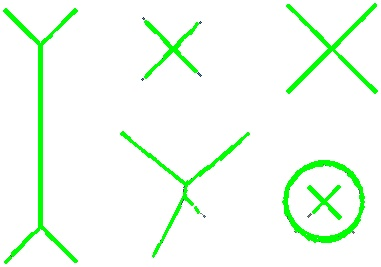
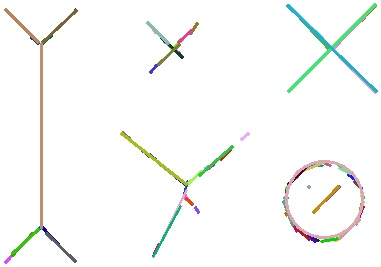
add line joining ideas...

diff --git a/hough.py b/hough.py
@@ -6,6 +6,8 @@ import cv2.cv as cv
 import numpy as np
 import sys
 
+import random
+
 from PIL import Image, ImageFilter
 
 FILE = sys.argv[1]
@@ -17,6 +19,9 @@ img = cv2.imread(FILE)
 gray = cv2.cvtColor(img,cv2.COLOR_BGR2GRAY)
 blur = cv2.blur(img, (5, 5))
 edges = cv2.Canny(gray,50,150,apertureSize = 3)
+
+blankimg = img.copy()
+blankimg[:] = (255, 255, 255)
 
 gray = (255-gray)
 
@@ -33,15 +38,150 @@ circles = cv2.HoughCircles(gray,cv.CV_HOUGH_GRADIENT,1,50,
 
 if lines is not None:
   print "FOUND ", len(lines[0]), "LINES"
-  for x1,y1,x2,y2 in lines[0]:
-      cv2.line(img,(x1,y1),(x2,y2),(0,255,0),2)
+  unjoined_lines = []
+  joined = True
+  CORNERS = [
+    ([0, 1], [0, 1]),
+    ([0, 1], [2, 3]),
+    ([2, 3], [0, 1]),
+    ([2, 3], [2, 3]),
+  ]
+
+  lines = lines[0]
+
+  newlines = []
+  for line in lines:
+    if line[0] == line[2]:
+      if line[1] > line[3]:
+        newlines.append([line[2], line[3], line[0], line[1]])
+
+      else:
+        newlines.append(line)
+    else:
+      newlines.append(line)
+     
+  lines = newlines
+  while joined:
+      didjoin = False
+      print len(lines), "LINES ARE", lines
+
+      newlines = []
+
+      from collections import defaultdict
+      used = defaultdict(bool)
+
+      lines.sort(key=lambda x: abs(x[2] - x[0]) + abs(x[3] - x[1]))
+      for line in lines:
+          joined = False
+          if used[tuple(line)]:
+              continue
+
+          for neighbor in lines:
+              if used[tuple(neighbor)]:
+                  continue
+
+              if tuple(line) == tuple(neighbor):
+                  continue
+
+
+              # now to check slope...
+              slope1 = 0
+              slope2 = 0
+              try:
+                  slope1 = float(line[3] - line[1]) / float(line[2] - line[0]) 
+              except:
+                pass
+
+              try:
+                  slope2 = float(neighbor[3] - neighbor[1]) / float(neighbor[2] - neighbor[0]) 
+              except:
+                  pass
+
+              # need to check the distance of all possible pairs...
+              for corner_pair in CORNERS:
+                if joined:
+                    break
+
+                x, y = corner_pair[0]
+                a, b = corner_pair[1]
+
+                x_val = line[x]
+                y_val = line[y]
+
+                a_val = neighbor[a]
+                b_val = neighbor[b]
+
+                THRESH=5
+                if abs(x_val - a_val) > THRESH or abs(y_val - b_val) > THRESH:
+                    continue
+
+                print "CORNERS MATCH", (x_val, y_val), (a_val, b_val), line, neighbor
+
+                if abs(slope1 - slope2) > 0.001:
+                    continue
+
+                print "SLOPES MATCH", slope1, slope2
+
+                # now, we take the two corners that we matched with and use
+                # their complements as the line segment...
+                new_x_val = line[(x+2) % 4]
+                new_y_val = line[(y+2) % 4]
+
+                new_a_val = neighbor[(a + 2) % 4]
+                new_b_val = neighbor[(b + 2) % 4]
+
+                used[tuple(line)] = True
+                used[tuple(neighbor)] = True
+          
+                # THIS IS WHERE WE NEED TO DO IT RIGHT?
+                newline = [
+                    new_x_val,
+                    new_y_val,
+                    new_a_val,
+                    new_b_val
+                ]
+
+                if tuple(newline) != tuple(line) and tuple(newline) != tuple(neighbor):
+                    didjoin = True
+                    joined = True
+
+                    print "JOINING", line, neighbor
+                    print "NEWLINE IS", newline
+
+                    newlines.append(newline)
+
+          if not joined:
+            newlines.append(line)
+
+
+
+      lines = newlines
+      if didjoin:
+          joined = True
+
+          
+
+  print "JOINED INTO %s LINES" % len(lines)
+  for x1,y1,x2,y2 in lines:
+      color = (
+        random.randint(0, 255), 
+        random.randint(0, 255), 
+        random.randint(0, 255), 
+      )
+
+      cv2.line(blankimg,(x1,y1),(x2,y2),color,2)
 
 
 if circles is not None:
   print "FOUND ", len(circles[0]), "CIRCLES"
   for x,y,r in circles[0]:
-      cv2.circle(img, (x,y), r, (0, 255, 0), 2)
+      color = (
+        random.randint(0, 255), 
+        random.randint(0, 255), 
+        random.randint(0, 255), 
+      )
+      cv2.circle(blankimg, (x,y), r, color, 2)
 
 
-cv2.imwrite(FILE + 'houghlines3.jpg',img)
+cv2.imwrite(FILE + 'houghlines3.jpg',blankimg)
 
